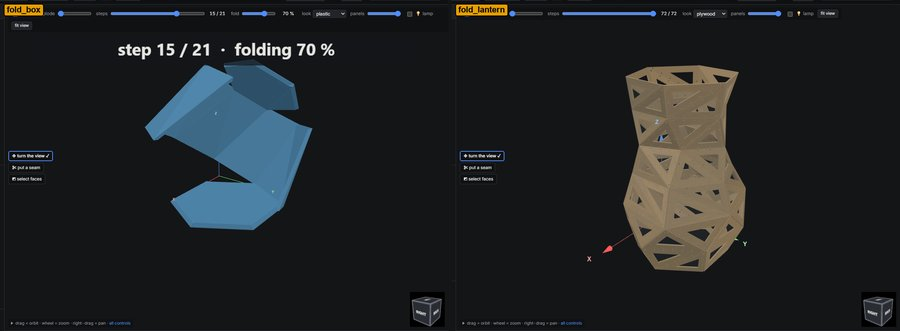
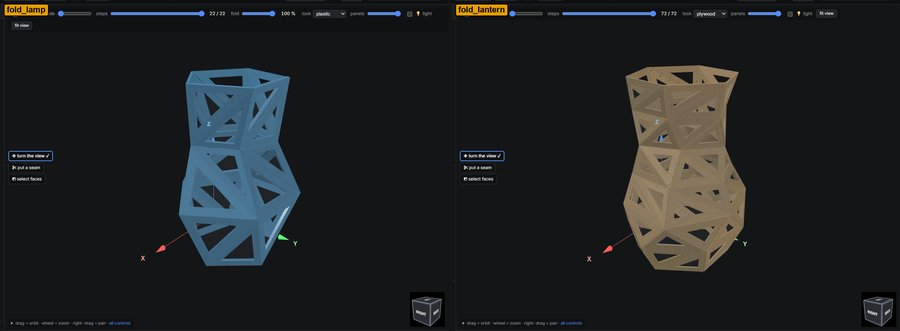
Release notes: Added 14 -> 11 and Changed 12 -> 11, with room for the entries still to come
Snap-joint brought two Added entries over the twelve. Related entries are one now, so Added and Changed each keep a
place for what is still to come (paper lamps, print tags):
- click and snap are one entry, "Printed panels join without glue.", with the new clip: closed at one end, it
  slides along a short wall on each panel. It names the new fold_box. One picture, 0.4.0-joints.jpg: the box
  laid flat with each joint, side by side (n040_joints, from the snap-joint branch's two functions).
- "Shorter pieces for small sheets" is in "Ring slices." (both from the same fork; max piece length cuts rings).
- "Two new folded examples": fold_box is in the joints entry, fold_lantern in Changed's lamp entry, "An easier
  lamp, and a lantern.", under a picture of the two (n040_examples).
- Changed: "Basic or all settings" is in "Settings that are easy to read."; its picture rings the search box and
  the basic / all switch.
- Gone with their entries: 0.4.0-max-length, -basic, -lamp-example, -click, -snap and their functions.

notes_check 0.4.0 OK (Added 11, Changed 11, Fixed 10); every 0.4.0 picture is used; ruff clean; What is new on the
page: 26 of 26 pictures load, no page errors.

diff --git a/scripts/media/news.py b/scripts/media/news.py
@@ -3,7 +3,7 @@
     uv run python scripts/media/news.py              every picture
     uv run python scripts/media/news.py 0.4.0-lamp   only these
 
-One function for each picture: n040_lamp_example makes 0.4.0-lamp-example.jpg. It opens an example, sets what the
+One function for each picture: n040_hide_dowels makes 0.4.0-hide-dowels.jpg. It opens an example, sets what the
 entry is about, crops to that area and rings the new thing with a short label (never colour alone: a thick ring with
 a dark edge, and words). The file is 900 px wide at most and under 150 KB, which tools/notes_check.py checks. The
 what-is-new dialog shows these files offline: web/static ships in the wheel and in the browser build.
@@ -236,23 +236,6 @@ def n040_bands(app):
     app.shot("0.4.0-bands", "#v3d", [])
 
 
-def n040_max_length(app):
-    app.example("head_igea", "stacked")
-    app.set("distribution", "count")
-    app.set("count", 10)
-    app.p.check("#p_ring_slices")
-    app.idle()
-    app.set("max_length", 150)
-    app.p.select_option("#viewmode", "only2d")
-    app.p.wait_for_timeout(800)
-    x0, y0, x1, y1 = app.box("#sheets")              # the sheet only, where the pieces lie (its top half is empty)
-    app.shot("0.4.0-max-length", (x0, y0 + 0.5 * (y1 - y0), x1, y1), [])
-    app.p.select_option("#viewmode", "both")
-    app.set("max_length", 0)
-    app.p.uncheck("#p_ring_slices")
-    app.idle()
-
-
 # the horse example's curve and branches in 0.3.3, before its head became a branch of its own
 HORSE_033 = {"curve": [[-119, 11], [-89, 18], [-59, 23], [-14, 10], [16, 13], [50, 22], [76, 47], [91, 76], [106, 89], [136, 83]],
              "branches": [[[-2, 46.6, -33], [-5.2, 64.5, -128]], [[40.5, 36.8, -33], [49, 25.8, -125]],
@@ -281,29 +264,21 @@ def n040_horse_head(app):
     save("0.4.0-horse-head", side_by_side(*halves))
 
 
-def n040_examples(app):
+def n040_examples(app):                     # the easier lamp and the new lantern (the new box is in the joints picture)
     halves = []
-    for ex, open_, zoom in (("fold_box", 6, 1.7), ("fold_lantern", 0, 1.15)):   # closed, the box reads as a block
+    for ex, zoom in (("fold_lamp", 1.2), ("fold_lantern", 1.15)):
         app.example(ex)
         app.view(35, 22, zoom)
-        app.p.evaluate("n => {const s = document.querySelector('#steps'); s.value = s.max - n;"
-                       " s.dispatchEvent(new Event('input'))}", open_)
-        app.p.wait_for_timeout(1200)
         halves.append(caption(app.grab("#v3d"), ex))
     save("0.4.0-examples", side_by_side(*halves))
 
 
-def n040_settings(app):
+def n040_settings(app):                     # one ring round the search box and the basic / all switch under it
     app.example("vase", "stacked")
     app.level("all")
     app.p.fill("#find", "")
-    app.shot("0.4.0-settings", (0, 40, 470, 760), [("#find", "find a setting")])
-
-
-def n040_basic(app):
-    app.example("vase", "stacked")
-    app.level("basic")
-    app.shot("0.4.0-basic", (0, 40, 470, 620), [("#level", "basic / all")])
+    f, lv = app.box("#find"), app.box("#level")
+    app.shot("0.4.0-settings", (0, 40, 470, 760), [((f[0], f[1], f[2], lv[3]), "find a setting, basic / all")])
 
 
 def n040_spacing(app):
@@ -353,12 +328,6 @@ def n040_fold(app):
                    " s.dispatchEvent(new Event('input'))}")
     app.p.wait_for_timeout(1200)
     app.shot("0.4.0-fold", VIEW, [("label:has(#steps)", "steps")])
-
-
-def n040_lamp_example(app):
-    app.example("fold_lamp")
-    app.view(30, 20, 1.2)
-    app.shot("0.4.0-lamp-example", VIEW, [])
 
 
 def crossed_side(app, example, sink, settings):   # a side relief, crossed: one Y spine goes in first, X ribs onto it
@@ -463,6 +432,24 @@ def n040_standoff(app):                     # written by the printed-spacers bra
     app.shot("0.4.0-standoff", (0, 40, 1574, 860), [("section[data-tab=technique] .f[data-p=connect]", "printed standoffs")])
 
 
+def part(app, sel, x0, y0, x1, y1):         # a box inside an area, in shares of its width and height
+    a, b, c, d = app.box(sel)
+    return a + x0 * (c - a), b + y0 * (d - b), a + x1 * (c - a), b + y1 * (d - b)
+
+
+def n040_joints(app):                       # the printed box laid flat with each joint; they stand on the inside face
+    halves = []                             # (written by the snap-joint branch as two pictures, one picture since)
+    for joint, mark, label in (("click", (0.61, 0.47, 0.71, 0.6), "a click joint"),
+                               ("snap", (0.735, 0.42, 0.795, 0.51), "a wall for the clip")):
+        app.example("fold_box")
+        app.set("joint", joint)
+        fold_to(app, 0)
+        app.view(20, 55, 0.55)
+        halves.append(caption(app.grab(part(app, VIEW, 0.34, 0.1, 0.86, 0.69), [(part(app, VIEW, *mark), label)]), joint))
+        fold_to(app, 100)
+    save("0.4.0-joints", side_by_side(*halves))
+
+
 # ---- 0.3.3 -----------------------------------------------------------------------------------------------------
 
 
@@ -553,7 +540,7 @@ def n040_library(app):
     app.p.click("#libclose")
 
 
-def picture_name(f):                        # n040_lamp_example -> 0.4.0-lamp-example
+def picture_name(f):                        # n040_hide_dowels -> 0.4.0-hide-dowels
     v, slug = f.__name__.split("_", 1)
     return f"{v[1]}.{v[2]}.{v[3]}-{slug.replace('_', '-')}"
 

diff --git a/CHANGELOG.md b/CHANGELOG.md
@@ -25,8 +25,8 @@ inside to see it as a lamp.
 
   [![The band sphere: three families of rings, each with its own colour and pattern; the clip builds it ▶](web/static/news/0.4.0-bands.jpg)](https://marcelfarres.github.io/lamina/media/bands_build.mp4)
 
-- **Ring slices.** Tick *ring slices* on Stacked: each slice keeps only a wall, so the stack uses about a quarter
-  of the material. Each dowel sits in a collar. Thanks to @DaveLauber: adapted from his fork.
+- **Ring slices.** Tick *ring slices* on Stacked: each slice keeps only a wall, about a quarter of the material.
+  *Max piece length* cuts long rings to fit small sheets. Thanks to @DaveLauber: adapted from his fork.
 
   [![The scanned head as a stack of rings on dowels ▶](web/static/news/0.4.0-rings.jpg)](https://marcelfarres.github.io/lamina/media/rings.mp4)
 
@@ -34,11 +34,6 @@ inside to see it as a lamp.
   posts hold the laser-cut layers apart. The print file comes in the zip, named 3D-PRINT. Try the new *shade*.
 
   ![The shade example: laser-cut layers held apart by printed standoffs](web/static/news/0.4.0-standoff.jpg)
-
-- **Shorter pieces for small sheets.** *Max piece length* cuts a long ring into pieces no longer than the length
-  you give, joined by tabs, so they fit a small sheet. Thanks to @DaveLauber: adapted from his fork.
-
-  ![The head's rings cut into pieces of 150 mm at most, nested on one sheet](web/static/news/0.4.0-max-length.jpg)
 
 - **Light your model.** Tick *light* over the 3D view to see its light and soft shadows in a room. The *Light* tab
   holds up to four bulbs and spots; drag them in the view. Saved with the project.
@@ -55,20 +50,10 @@ inside to see it as a lamp.
 
   ![The put a seam tool: your seams as a thick line round the back of the lion's head](web/static/news/0.4.0-seams.jpg)
 
-- **Printed seams that click shut.** The *click* joint for printed folded panels: a tooth on one panel snaps under
-  a bar on the other. No glue, no loose parts, nothing outside. *click size* fits it to any model.
+- **Printed panels join without glue.** Pick a joint for the seams. *click*: a tooth snaps under a bar. *snap*: a
+  printed clip, closed at one end, slides along a short wall on each panel. Try both on the new *fold_box*.
 
-  ![The box laid flat: the teeth and bars of the click joint stand on the inside of the panels](web/static/news/0.4.0-click.jpg)
-
-- **Or seams held by clips.** The *snap* joint puts a short wall on each panel inside every seam, and a small
-  printed clip slid along the two holds them. The clips print on a plate of their own.
-
-  ![The box laid flat: a short wall on each panel at every seam, for the snap joint's clips](web/static/news/0.4.0-snap.jpg)
-
-- **Two new folded examples.** *fold_box* is a box with a lid that you print flat and fold up. *fold_lantern* is a
-  plywood lantern of 72 pieces.
-
-  ![The fold_box example half folded, and the fold_lantern example](web/static/news/0.4.0-examples.jpg)
+  ![The new fold_box laid flat twice: a click joint, then the short walls a snap joint's clip slides along](web/static/news/0.4.0-joints.jpg)
 
 - **Choose which slices go in first.** *Into the plate first* picks the X or Y slices of a crossed plaque. The
   others slide onto them one by one. *First family height* makes them a low rail. Their teeth are full width.
@@ -82,15 +67,10 @@ inside to see it as a lamp.
 
 ### Changed
 
-- **Settings that are easy to read.** Full names, sections that fold, a ↺ sign to undo a change, a box over the
-  tabs that finds a setting, and help that opens under a setting's name when you click it.
+- **Settings that are easy to read.** Full names, sections that fold, ↺ to undo a change, a search box over the
+  tabs, and help that opens under a setting's name. The *basic* switch shows only what a first piece needs.
 
-  ![The Technique tab: full names, folding sections and the search box](web/static/news/0.4.0-settings.jpg)
-
-- **Basic or all settings.** A switch under the search box shows only what a first piece needs. Your result is the
-  same.
-
-  ![The basic / all switch under the search box](web/static/news/0.4.0-basic.jpg)
+  ![The Technique tab: full names, folding sections, the search box and the basic / all switch](web/static/news/0.4.0-settings.jpg)
 
 - **The spacing graph, under its tick.** Start the curve from a shape, add or move points with buttons, and see
   every slice under the curve.
@@ -120,10 +100,10 @@ inside to see it as a lamp.
 
   [![The steps slider folding the lamp shade ▶](web/static/news/0.4.0-fold.jpg)](https://marcelfarres.github.io/lamina/media/fold.mp4)
 
-- **An easier lamp.** *fold_lamp* has 30 bigger triangles and 12 seams to close, not 72 and 32. It still prints on
-  one plate.
+- **An easier lamp, and a lantern.** *fold_lamp* has 30 bigger triangles and 12 seams to close, not 72 and 32. It
+  still prints on one plate. The new *fold_lantern* is a plywood lantern of 72 pieces.
 
-  ![The fold_lamp example with its 30 triangles](web/static/news/0.4.0-lamp-example.jpg)
+  ![The fold_lamp example with its 30 triangles, and the new fold_lantern](web/static/news/0.4.0-examples.jpg)
 
 - **Small changes to folded panels.** The printed-fold settings show only on a print job. Joint settings show only
   where they apply. A fin thinner than two sheets gets a warning. A print set says which parts lost their grooves.
